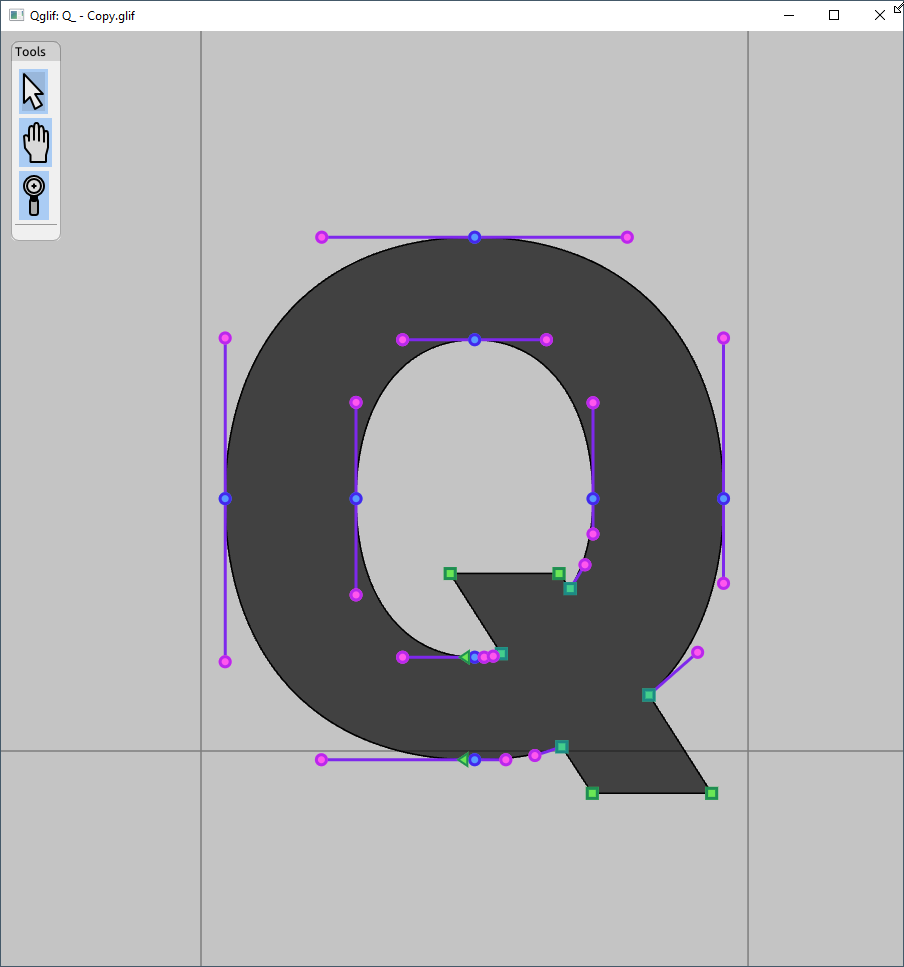
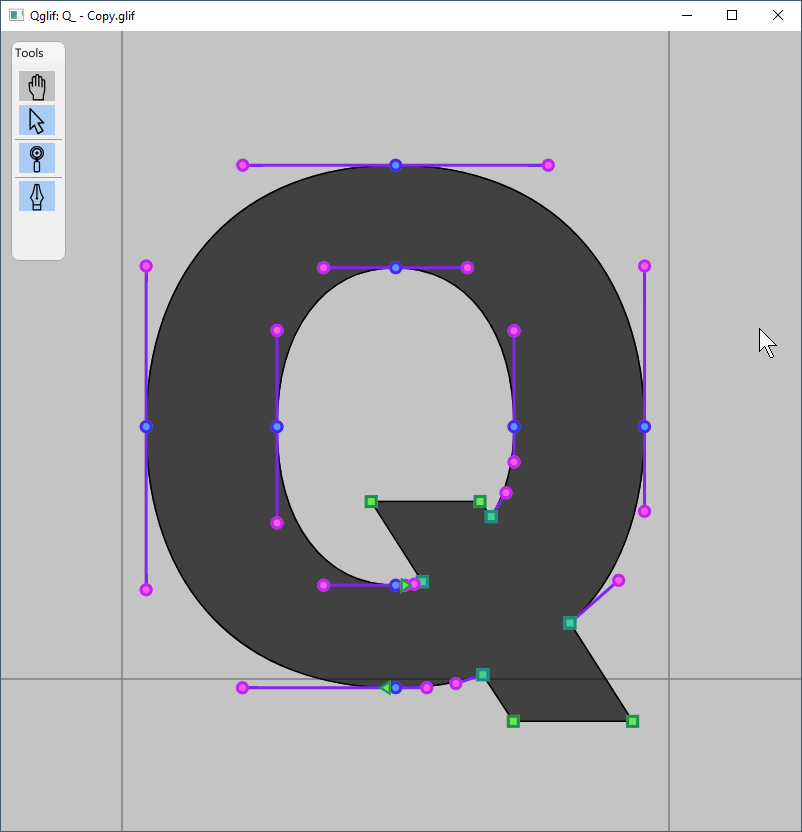
OpenGL no longer in use as of merge of skulpin branch

diff --git a/README.md b/README.md
@@ -14,11 +14,7 @@ I wrote it after, hopefully, learning from the mistakes made by George Williams 
 
 Qglif is the premier program of the Modular Font Editor Q project. This project aims to create a full font editor by making many small programs that will all work together, fulfilling the Unix adage that each program should have one task and do that task well. Qglif aims to do the task of drawing and editing glyphs well.
 
-### Technical details
-
-Two OpenGL contexts are made: one for Skia and one for Dear ImGui. Skia is redrawn only when necessary, while Dear ImGui is redrawn upon every frame. At the start of the program, `glifparser.rs` parses the input `.glif` file and creates a Skia path. Keyboard events are handled by `glutin`, which triggers the appropriate actions on both the Skia canvas and Dear ImGui's UI. If the cursor is over the toolbox, then clicks are not passed down to Skia&mdash;this has the benefit of not causing the canvas to zoom in when merely switching to the zoom tool.
-
-To make this as easy as possible to build, and cross-platform without hassle, the SVG icons are compiled right into the binary via the Rust `include_str!` macro.
+To make this as easy as possible to build, and cross-platform without hassle, the icon is compiled right into the binary via the Rust `include_str!` macro.
 
 ### Mac users
 
